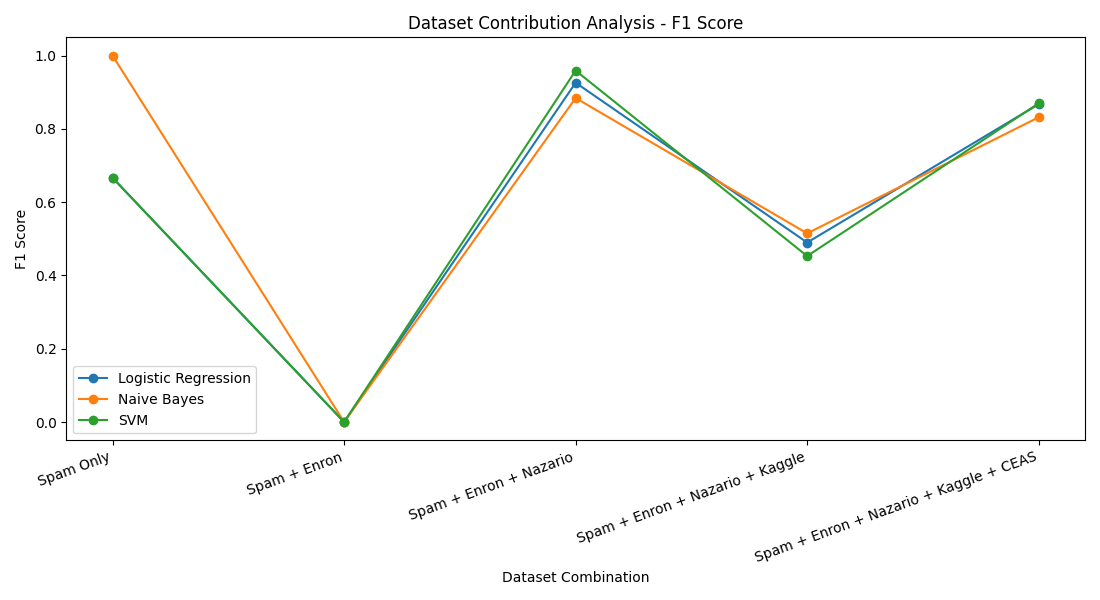
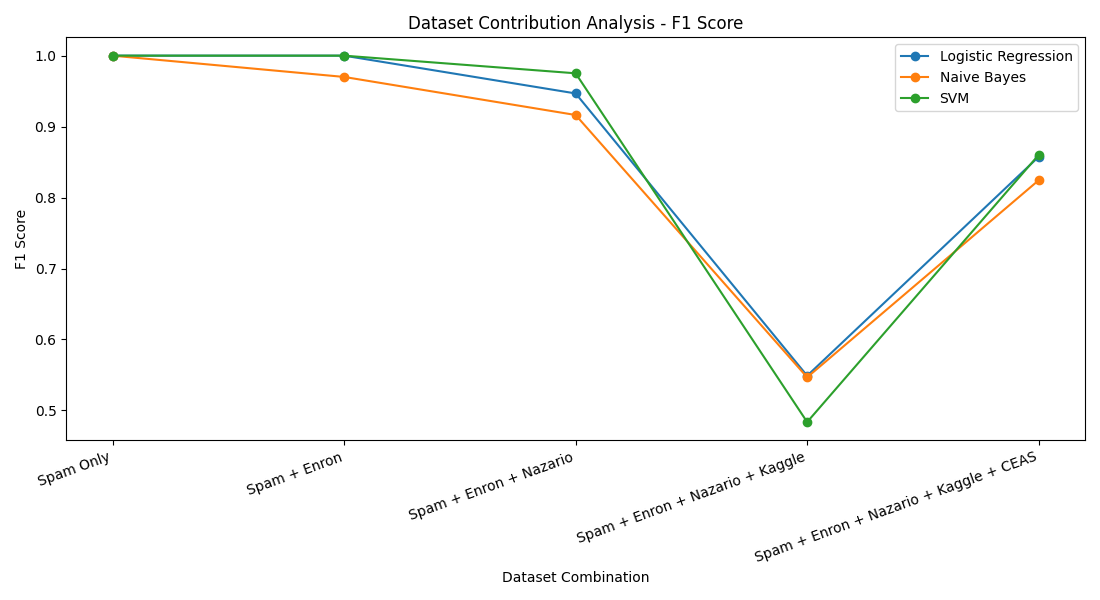
model to a good standard for now

diff --git a/train_model.py b/train_model.py
@@ -9,6 +9,7 @@ from sklearn.feature_extraction.text import TfidfVectorizer
 from sklearn.linear_model import LogisticRegression
 from sklearn.naive_bayes import MultinomialNB
 from sklearn.svm import LinearSVC
+from scipy.sparse import issparse
 from sklearn.metrics import (
     classification_report,
     accuracy_score,
@@ -83,12 +84,12 @@ def finalise_dataset(df, dataset_name):
     df["label"] = normalise_labels(df["label"])
 
     df = df[(df["text"] != "") & (df["label"].isin(["phishing", "legitimate"]))]
-    df = df.drop_duplicates(subset=["text", "label"]).reset_index(drop=True)
+    df = df.reset_index(drop=True)
 
     print(f"{dataset_name} labels after cleaning:")
     print(df["label"].value_counts(dropna=False))
     print()
-
+    
     return df
 
 
@@ -320,6 +321,119 @@ def save_learning_curve(estimator, X, y, model_name, save_path):
     plt.savefig(save_path)
     plt.close()
 
+# ----------------------------
+# H15. Error analysis helper Saves all misclassified emails and seperates false positives /false negatives 
+# ----------------------------
+
+def save_error_analysis(X_test, y_test, predictions, save_dir="models"):
+    results_df = pd.DataFrame({
+        "text": X_test.reset_index(drop=True),
+        "actual": y_test.reset_index(drop=True),
+        "predicted": pd.Series(predictions).reset_index(drop=True)
+    })
+def save_error_analysis(X_test, y_test, predictions, confidences=None, save_dir="models"):
+    results_df = pd.DataFrame({
+        "text": X_test.reset_index(drop=True),
+        "actual": y_test.reset_index(drop=True),
+        "predicted": pd.Series(predictions).reset_index(drop=True)
+    })
+
+    if confidences is not None:
+        results_df["phishing_confidence"] = pd.Series(confidences).reset_index(drop=True)
+
+    misclassified = results_df[results_df["actual"] != results_df["predicted"]].copy()
+
+    false_positives = misclassified[
+        (misclassified["actual"] == "legitimate") &
+        (misclassified["predicted"] == "phishing")
+    ].copy()
+
+    false_negatives = misclassified[
+        (misclassified["actual"] == "phishing") &
+        (misclassified["predicted"] == "legitimate")
+    ].copy()
+
+    misclassified.to_csv(f"{save_dir}/misclassified_emails.csv", index=False)
+    false_positives.to_csv(f"{save_dir}/false_positives.csv", index=False)
+    false_negatives.to_csv(f"{save_dir}/false_negatives.csv", index=False)
+
+    print("Saved error analysis files:")
+    print("- models/misclassified_emails.csv")
+    print("- models/false_positives.csv")
+    print("- models/false_negatives.csv")
+# ----------------------------
+# H16. Confidence Helper Adds phishing confidence where supported
+# ----------------------------
+
+def get_phishing_confidence(model, X_vec):
+    if hasattr(model, "predict_proba"):
+        probs = model.predict_proba(X_vec)
+        class_index = list(model.classes_).index("phishing")
+        return probs[:, class_index]
+    
+    return [None] * X_vec.shape[0]
+
+# ----------------------------
+# H17. Feature importance helper Saves top phishing and legitiamte terms for linear models
+# ----------------------------
+
+def save_feature_importance(model, vectorizer, top_n=20, save_dir="models"):
+    if not hasattr(model, "coef_"):
+        print("Feature importance skipped: this model does not expose coef_.")
+        return
+
+    # Get feature names
+    feature_names = np.array(vectorizer.get_feature_names_out())
+
+    # Flatten coefficients to 1D
+    coefficients = np.asarray(model.coef_).ravel()
+
+    # Safety check
+    if len(feature_names) != len(coefficients):
+        print("Feature importance skipped: feature and coefficient lengths do not match.")
+        print(f"Feature count     : {len(feature_names)}")
+        print(f"Coefficient count : {len(coefficients)}")
+        return
+
+    # Make sure top_n is not bigger than number of features
+    top_n = min(top_n, len(feature_names))
+
+    # Positive = phishing, negative = legitimate
+    top_phishing_idx = np.argsort(coefficients)[-top_n:][::-1]
+    top_legitimate_idx = np.argsort(coefficients)[:top_n]
+
+    phishing_df = pd.DataFrame({
+        "feature": feature_names[top_phishing_idx].tolist(),
+        "coefficient": coefficients[top_phishing_idx].tolist()
+    })
+
+    legitimate_df = pd.DataFrame({
+        "feature": feature_names[top_legitimate_idx].tolist(),
+        "coefficient": coefficients[top_legitimate_idx].tolist()
+    })
+
+    phishing_df.to_csv(f"{save_dir}/top_phishing_features.csv", index=False)
+    legitimate_df.to_csv(f"{save_dir}/top_legitimate_features.csv", index=False)
+
+    # Plot both together
+    combined_df = pd.concat([
+        legitimate_df.assign(group="Legitimate"),
+        phishing_df.assign(group="Phishing")
+    ], ignore_index=True)
+
+    plt.figure(figsize=(12, 8))
+    plt.barh(combined_df["feature"], combined_df["coefficient"])
+    plt.title("Top Feature Importance - Legitimate vs Phishing")
+    plt.xlabel("Coefficient Weight")
+    plt.ylabel("Feature")
+    plt.tight_layout()
+    plt.savefig(f"{save_dir}/feature_importance.png")
+    plt.close()
+
+    print("Saved feature importance files:")
+    print("- models/top_phishing_features.csv")
+    print("- models/top_legitimate_features.csv")
+    print("- models/feature_importance.png")
 
 # ============================================================
 # 1. LOAD DATASETS
@@ -422,6 +536,7 @@ print()
 # ----------------------------
 
 data = finalise_dataset(data, "Combined Dataset")
+data = data.drop_duplicates(subset=["text", "label"]).reset_index(drop=True)
 
 print("Combined dataset size after cleaning:", len(data))
 print()
@@ -582,6 +697,7 @@ results = []
 best_model = None
 best_model_name = None
 best_f1 = 0.0
+best_predictions = None
 
 for name, model in models.items():
     print("\n" + "-" * 50)
@@ -624,6 +740,7 @@ for name, model in models.items():
         best_f1 = f1
         best_model = model
         best_model_name = name
+        best_predictions = predictions
 
 
 # ============================================================
@@ -673,15 +790,13 @@ print("- models/model_results.csv")
 
 
 # ============================================================
-# 9. SAVE LEARNING CURVE AND CONFUSION MATRIX
+# 9. SAVE LEARNING CURVE, CONFUSION MATRIX, ERROR ANALYSIS, AND FEATURE IMPORTANCE
 # ============================================================
-
-print_section("9. SAVE LEARNING CURVE AND CONFUSION MATRIX")
+print_section("9. SAVE LEARNING CURVE, CONFUSION MATRIX, ERROR ANALYSIS, AND FEATURE IMPORTANCE")
 
 # ----------------------------
 # 9.1 Save learning curve
 # ----------------------------
-
 save_learning_curve(
     best_model,
     X_train_vec,
@@ -689,46 +804,22 @@ save_learning_curve(
     best_model_name,
     "models/learning_curve.png"
 )
-
 print("Saved learning curve to:")
 print("- models/learning_curve.png")
 
 # ----------------------------
-# 9.2 Save confusion matrix
+# 9.2 Save best model classification report
 # ----------------------------
-
-best_predictions = best_model.predict(X_test_vec)
-
 best_report = classification_report(y_test, best_predictions, zero_division=0)
-
-with open("models/best_model_classification_report.txt", "w")as f:
+with open("models/best_model_classification_report.txt", "w") as f:
     f.write(best_report)
 
-# Save classification report for this model
-report = classification_report(y_test, predictions, zero_division=0)
-with open(f"models/{name.lower().replace(' ', '_')}_classification_report.txt", "w") as f:
-    f.write(report)
-    
-# Save false positives and false negatives for this model
-best_test_results = pd.DataFrame({
-    "text": X_test.reset_index(drop=True),
-    "actual": y_test.reset_index(drop=True),
-    "predicted": pd.Series(best_predictions)
-})
+print("Saved best model classification report to:")
+print("- models/best_model_classification_report.txt")
 
-false_negatives = best_test_results[
-    (best_test_results["actual"] == "phishing") &
-    (best_test_results["predicted"] == "legitimate")
-]
-
-false_positives = best_test_results[
-    (best_test_results["actual"] == "legitimate") &
-    (best_test_results["predicted"] == "phishing")
-]
-
-false_negatives.to_csv("models/false_negatives.csv", index=False)
-false_positives.to_csv("models/false_positives.csv", index=False)
-
+# ----------------------------
+# 9.3 Save confusion matrix
+# ----------------------------
 plt.figure(figsize=(6, 5))
 ConfusionMatrixDisplay.from_predictions(
     y_test,
@@ -744,6 +835,22 @@ plt.close()
 print("Saved confusion matrix to:")
 print("- models/confusion_matrix.png")
 
+# ----------------------------
+# 9.4 Save error analysis
+# ----------------------------
+best_confidences = get_phishing_confidence(best_model, X_test_vec)
+save_error_analysis(
+    X_test,
+    y_test,
+    best_predictions,
+    confidences=best_confidences,
+    save_dir="models"
+)
+
+# ----------------------------
+# 9.5 Save feature importance
+# ----------------------------
+save_feature_importance(best_model, vectorizer, top_n=20, save_dir="models")
 
 # ============================================================
 # 10. TEST ON EXTERNAL TEST DATA
